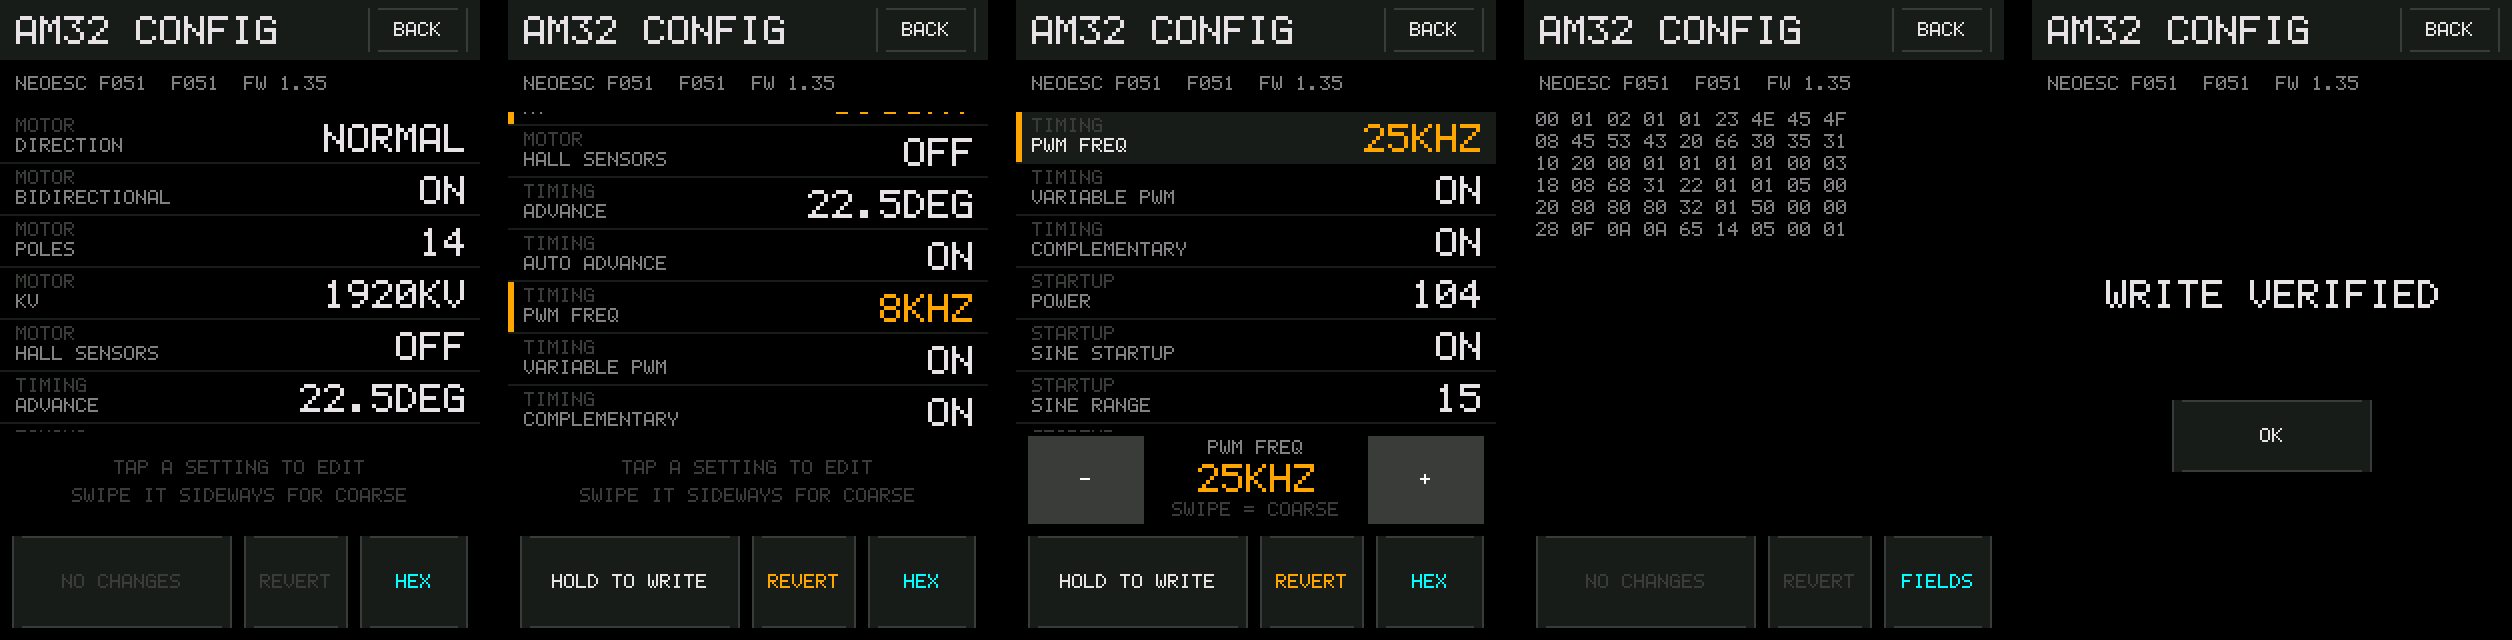
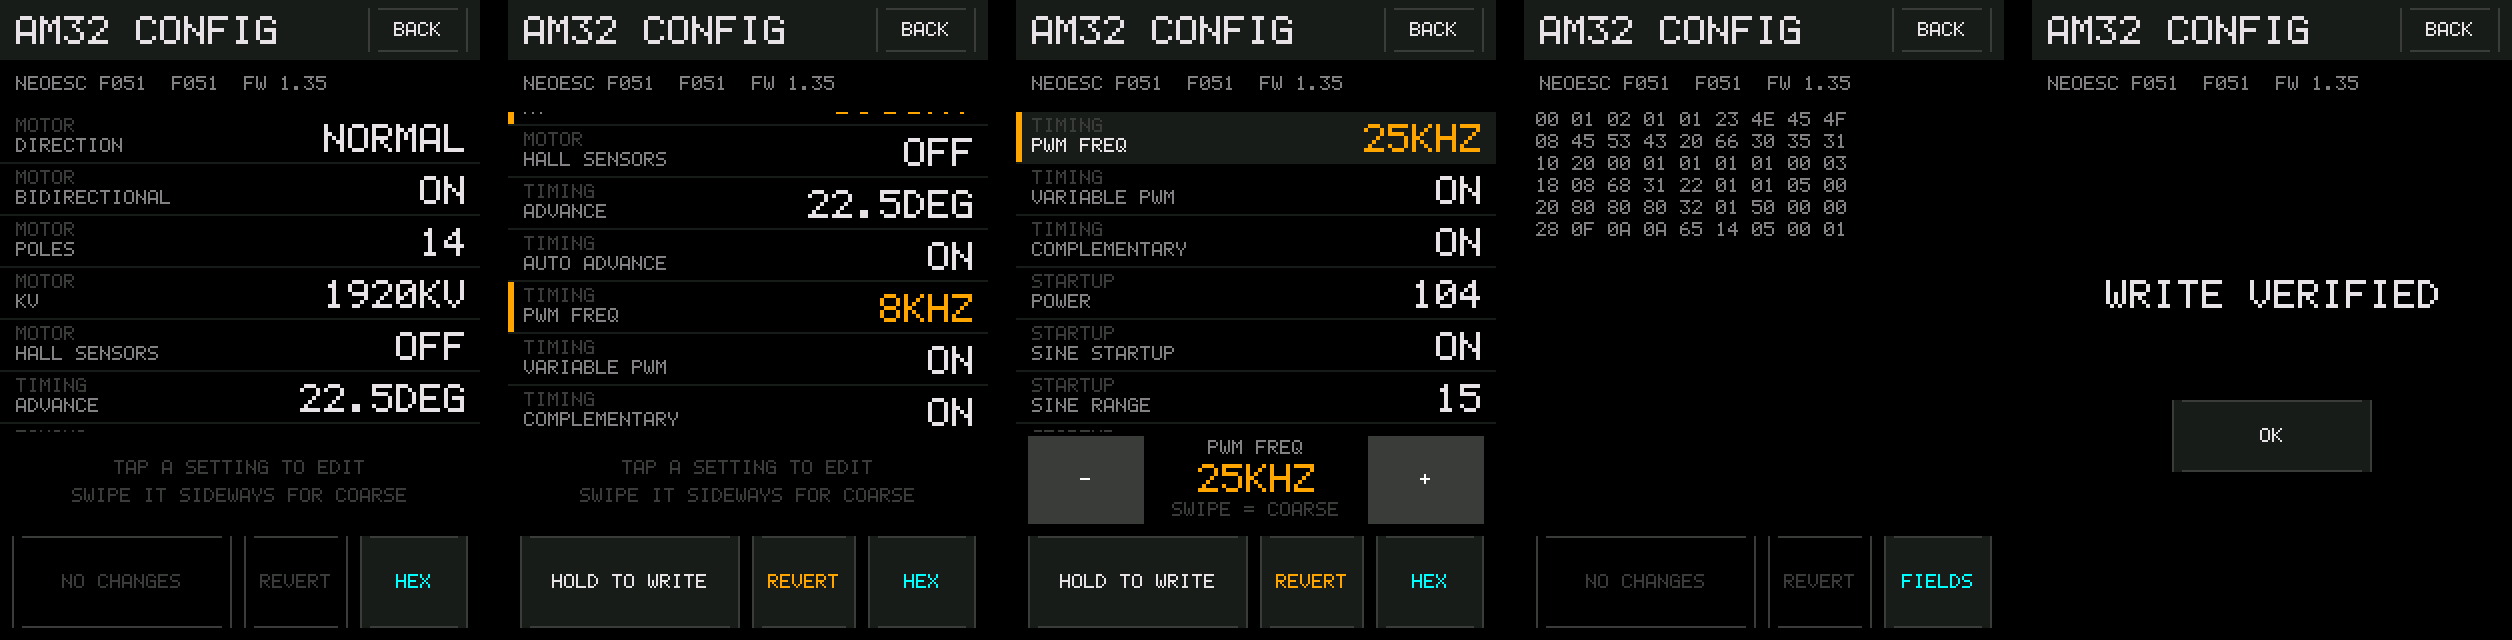
fix(ui): a control that is drawn unavailable no longer acts
Reported in #23: with KISS telemetry switched off, the KISS PIN row on SETUP
still stepped. The row reads "--", the value moves anyway, SAVE writes it to
flash, and nothing on the screen says so -- a hidden reconfiguration, and the
easiest one to trigger on the small panel where a fingertip covers two rows.

Auditing the other screens for the same shape turned up three more, and one
that was already right:

  SETUP    KISS PIN -/+   looked live, stepped a pin that was not in use
  SD LOG   START          looked dead, called sdLogStart() anyway
  SD LOG   USB DRIVE      looked dead, asked for a handover to be refused
  AM32     REVERT         looked dead, ran -- harmless only because reverting
                          nothing to nothing is a no-op
  AM32     HOLD TO WRITE  already gated on `dirty`, and the model for the rest

So the rule is now written down in ui_widgets.h and carried by the widget: pass
enabled=false to uiButton() and gate the hit test on the same expression. The
disabled look is one look instead of three -- an outline with no fill, rather
than the same button with a dimmer label, because at half backlight in daylight
that was the difference between two greys.

What is deliberately *not* disabled:

  - RETRY on the logging screen. It is the control that gets you out of the
    no-card state; disabling it would leave a screen where nothing does
    anything.
  - USB DRIVE with a card present but armed or recording. It refuses and says
[…]

Changed region(s): [[0.0, 0.8125, 0.1553, 1.0], [0.59, 0.8125, 0.7452, 1.0]]

diff --git a/test/test_ui.cpp b/test/test_ui.cpp
@@ -754,6 +754,57 @@ static void testSetupKiss() {
 	// Switching it off is always available.
 	tap(SET_TOGGLE_X, SET_R_KISS);
 	checkInt("toggling again switches it off", settings()->kissEnable, 0);
+
+	// ...and with it off, the pin row stops being a control. It used to look
+	// live and step a pin that was not in use, which SAVE then wrote to flash:
+	// a reconfiguration nobody asked for, on a row already reading "--", with
+	// nothing on the screen to say it had happened. Reported as #23, and the
+	// hard part of it is that the old behaviour was invisible rather than
+	// wrong-looking. Both buttons, both directions, several times.
+	// Each direction is checked against the pin it started from, immediately.
+	// Stepping up and then down and checking once at the end passes whether or
+	// not the row is gated, because the two cancel: the first version of this
+	// test did exactly that and proved nothing.
+	int pinWhenOff = (int)settings()->kissPin;
+	tap(SET_PLUS_X, SET_R_KISSPIN);
+	checkInt("with KISS off, + does not step the pin",
+	         (int)settings()->kissPin, pinWhenOff);
+	// Re-read rather than reusing pinWhenOff: if + had stepped, - would step
+	// back onto it and the second check would pass on the strength of the
+	// first one failing.
+	int pinBeforeMinus = (int)settings()->kissPin;
+	tap(SET_MINUS_X, SET_R_KISSPIN);
+	checkInt("and neither does -", (int)settings()->kissPin, pinBeforeMinus);
+
+	// The row comes back to life with the function, rather than staying dead
+	// until something repaints it.
+	//
+	// Only assertable where the board has a pin to step to. The 2.8" frees two
+	// and the ESC holds one of them, so there the step correctly stays put --
+	// the same case the loop above is written around. Count the free set rather
+	// than special-casing a board name: walk settingsNextPinOn() until it comes
+	// back to where it started, which is the board's own answer.
+	tap(SET_TOGGLE_X, SET_R_KISS);
+	checkInt("KISS back on", settings()->kissEnable, 1);
+
+	int freePins = 1;
+	uint8_t first = settings()->kissPin;
+	for (uint8_t q = settingsNextPinOn(settings()->boardId, first, +1);
+	     q != first && freePins < 64;
+	     q = settingsNextPinOn(settings()->boardId, q, +1))
+		freePins++;
+
+	int pinBeforeStep = (int)settings()->kissPin;
+	tap(SET_PLUS_X, SET_R_KISSPIN);
+	if (freePins > 2) {
+		checkTrue("and the pin row steps again",
+		          (int)settings()->kissPin != pinBeforeStep);
+	} else {
+		checkTrue("the pin row is live again, with nowhere on this board to go",
+		          settingsPinFree(settings()->kissPin) &&
+		          settings()->kissPin != settings()->dshotPin);
+	}
+	tap(SET_TOGGLE_X, SET_R_KISS);
 }
 
 /** @brief Contrast and backlight take effect immediately and persist. */

diff --git a/src/ui.cpp b/src/ui.cpp
@@ -1074,10 +1074,11 @@ static void drawLogScreen() {
 
 	bool active = (st.state == SdLogState::Logging);
 	bool usable = (st.state != SdLogState::NoCard);
+	// Without a card there is nothing to start. It was drawn grey for that
+	// reason already, and pressed it anyway. @see #23
 	uiButton(BTN_LOG_TOGGLE, active ? "STOP" : "START",
-	        usable ? (active ? C_RED : C_PANEL) : C_PANEL,
-	        usable ? (active ? C_ONACCENT : C_LIME) : C_GRID, 2,
-	        pressing(BTN_LOG_TOGGLE, s_touch));
+	        active ? C_RED : C_PANEL, active ? C_ONACCENT : C_LIME, 2,
+	        pressing(BTN_LOG_TOGGLE, s_touch), usable);
 
 	// The card is only mounted once, at boot, so one inserted afterwards needs
 	// this. Without it, "insert card, nothing happens" is indistinguishable
@@ -1088,8 +1089,11 @@ static void drawLogScreen() {
 	// Hands the card to a computer over the same USB cable that powers the
 	// board. Cyan like the other navigation-ish controls; it is not
 	// destructive, and it is refused rather than guarded by a hold.
-	uiButton(BTN_LOG_USB, "USB DRIVE", C_PANEL, usable ? C_CYAN : C_GRID, 1,
-	        pressing(BTN_LOG_USB, s_touch));
+	// Same again. With a card present it stays live even when it will refuse --
+	// armed, or recording -- because those refusals say something the screen
+	// does not already: "NO CARD TO SHARE" only repeats the CARD row above.
+	uiButton(BTN_LOG_USB, "USB DRIVE", C_PANEL, C_CYAN, 1,
+	        pressing(BTN_LOG_USB, s_touch), usable);
 
 	// The note line says why the last press was refused. Blank the row even
 	// when there is nothing to say, or a stale reason outlives its cause.
@@ -1117,14 +1121,22 @@ static void handleLogTouch() {
 		return;
 	}
 
-	if (tapped(BTN_LOG_TOGGLE, s_touch)) {
+	// The same expression the buttons are drawn with: no card, no start and no
+	// handover. RETRY is exempt and always live -- it is the control that gets
+	// you *out* of the no-card state, and disabling it would be a screen with
+	// nothing on it that does anything.
+	SdLogStatus st;
+	sdLogStatus(&st);
+	const bool usable = (st.state != SdLogState::NoCard);
+
+	if (usable && tapped(BTN_LOG_TOGGLE, s_touch)) {
 		if (sdLogActive()) sdLogStop();
 		else               sdLogStart();
 		s_shown.config = -1;
 	} else if (tapped(BTN_LOG_RETRY, s_touch)) {
 		sdLogRemount();
 		s_shown.config = -1;
-	} else if (tapped(BTN_LOG_USB, s_touch)) {
+	} else if (usable && tapped(BTN_LOG_USB, s_touch)) {
 		MscRefusal r = mscRequest();
 		if (r != MscRefusal::None) {
 			s_mscNote = r;

diff --git a/src/ui_setup.cpp b/src/ui_setup.cpp
@@ -167,13 +167,18 @@ static UiRect toggleAt(int y) { return UiRect{BTN_M_X, (int16_t)y, TOGGLE_W, ROW
  * @param label Left-hand caption.
  * @param value Right-aligned value.
  * @param vcol  Value colour.
+ * @param enabled False when the row's setting is not in use: the buttons are
+ *                drawn unavailable and the caller must not step the value.
  */
-static void drawStepRow(int y, const char *label, const char *value, uint16_t vcol) {
+static void drawStepRow(int y, const char *label, const char *value,
+                        uint16_t vcol, bool enabled = true) {
 	gfxRect(0, y, GFX_W, ROW_H, C_BG);
 	gfxText(UI_MARGIN, y + (ROW_H - 7) / 2, label, C_DIM, 1);
 	gfxText(VAL_R - gfxTextW(value, 2), y + (ROW_H - 14) / 2, value, vcol, 2);
-	uiButton(minusAt(y), "-", C_PANEL, C_TEXT, 2, uiPressing(minusAt(y), &s_touchSnap));
-	uiButton(plusAt(y),  "+", C_PANEL, C_TEXT, 2, uiPressing(plusAt(y),  &s_touchSnap));
+	uiButton(minusAt(y), "-", C_PANEL, C_TEXT, 2,
+	         uiPressing(minusAt(y), &s_touchSnap), enabled);
+	uiButton(plusAt(y),  "+", C_PANEL, C_TEXT, 2,
+	         uiPressing(plusAt(y),  &s_touchSnap), enabled);
 }
 
 /**
@@ -273,8 +278,12 @@ static void drawAll() {
 
 	if (s->kissEnable) snprintf(buf, sizeof(buf), "GP%u", (unsigned)s->kissPin);
 	else               snprintf(buf, sizeof(buf), "--");
+	// With KISS off this row has nothing to set: the value reads "--", and the
+	// buttons say so too now. They used to look live and quietly move a pin
+	// that was not in use, which SAVE then wrote to flash -- a reconfiguration
+	// nobody asked for and nothing on the screen reported. @see #23
 	drawStepRow(R_KISSPIN, "KISS PIN", buf,
-	            s->kissEnable ? C_CYAN : C_DIM);
+	            s->kissEnable ? C_CYAN : C_DIM, s->kissEnable != 0);
 
 	drawToggleRow(R_CONTRAST, "CONTRAST",
 	              s->highContrast ? "HIGH" : "NORMAL", s->highContrast != 0);
@@ -432,7 +441,10 @@ bool uiSetupTick(const TouchState *t) {
 		else       s->dshotKbaud = (uint16_t)(s->dshotKbaud >= 1200 ? 150 : s->dshotKbaud * 2);
 		changed = true;
 	}
-	d = stepDir(t, R_KISSPIN);
+	// Gated on the same expression the row is drawn with. Still stepped through
+	// repeatFires() with a zero direction rather than skipped outright, or the
+	// repeat state would keep whatever it held when KISS was switched off.
+	d = s->kissEnable ? stepDir(t, R_KISSPIN) : 0;
 	if (repeatFires(&s_kissPinRep, d, millis())) {
 		s->kissPin = stepPinAvoiding(s->kissPin, d, s->dshotPin, true);
 		changed = true;

diff --git a/src/ui_widgets.h b/src/ui_widgets.h
@@ -22,6 +22,13 @@
  *   to stay legible. Adding to what is there cannot break any pairing.
  * - **Touch targets have a floor.** @ref UI_TAP_MIN is what a fingertip needs;
  *   the 18 px BACK strips this replaces were below it.
+ * - **A control that is drawn unavailable does not act.** Pass `enabled=false`
+ *   to uiButton() and gate its hit test on the same expression. Before this
+ *   there were three answers on three screens: SETUP's KISS PIN steppers looked
+ *   live and silently moved a pin that was not in use, the logging screen's
+ *   START looked dead and started a log anyway, and AM32's REVERT looked dead
+ *   and ran. A greyed control that still fires is worse than either, because
+ *   the screen has told you it will not.
  *
  * Hit testing is not duplicated here: it is inputPressing() and inputTapped()
  * in ui_input.h, and the wrappers below only spare callers from spelling out
@@ -104,10 +111,20 @@ bool uiTapped(const UiRect &r, const TouchState *t);
  * @param fill    Resting fill colour.
  * @param fg      Label colour, chosen against @p fill.
  * @param scale   Text scale.
- * @param pressed True while a finger is on it, from uiPressing().
+ * @param pressed True while a finger is on it, from uiPressing(). Ignored when
+ *                @p enabled is false -- a control that cannot act cannot show a
+ *                press either.
+ * @param enabled False draws the unavailable look: an outline with no fill,
+ *                which reads as "not a thing you press" at arm's length in a
+ *                way that a dimmed label does not. @p fill and @p fg are then
+ *                ignored, so callers can keep passing the colours the control
+ *                has when it is live.
+ *
+ * Drawing a button disabled is half of it. The caller must gate the hit test on
+ * the same expression; see the rule at the top of this file.
  */
 void uiButton(const UiRect &r, const char *label, uint16_t fill, uint16_t fg,
-              int scale, bool pressed);
+              int scale, bool pressed, bool enabled = true);
 
 /**
  * @brief Draw the header band: title on the left, BACK on the right.

diff --git a/src/ui_am32.cpp b/src/ui_am32.cpp
@@ -339,12 +339,14 @@ static void drawList() {
 		if (pct > 100) pct = 100;
 		gfxRect(6, FOOT_Y - 4, 110 * pct / 100, 3, C_LIME);
 	}
+	// Both are gated on the same `dirty` their hit tests are. WRITE already
+	// was; REVERT was drawn grey and ran regardless, which was harmless only
+	// because reverting nothing to nothing is a no-op. @see #23
 	uiButton(BTN_WRITE, dirty ? "HOLD TO WRITE" : "NO CHANGES",
-	         dirty ? writeFill : C_PANEL,
-	         dirty ? (s_writeHolding ? C_ONACCENT : C_TEXT) : C_GRID, 1,
-	         s_writeHolding);
-	uiButton(BTN_REVERT, "REVERT", C_PANEL, dirty ? C_AMBER : C_GRID, 1,
-	         uiPressing(BTN_REVERT, s_frameTouch));
+	         writeFill, s_writeHolding ? C_ONACCENT : C_TEXT, 1,
+	         s_writeHolding, dirty);
+	uiButton(BTN_REVERT, "REVERT", C_PANEL, C_AMBER, 1,
+	         uiPressing(BTN_REVERT, s_frameTouch), dirty);
 	uiButton(BTN_HEX, s_hexView ? "FIELDS" : "HEX", C_PANEL, C_CYAN, 1,
 	         uiPressing(BTN_HEX, s_frameTouch));
 }
@@ -531,7 +533,7 @@ static void handleListTouch(const TouchState *t) {
 	// --- destructive taps fire on release, inside, having started inside, so
 	//     a mis-tap can slide off. REVERT throws away every unsaved edit; it
 	//     used to do so on touch-down ---
-	if (uiTapped(BTN_REVERT, t)) {
+	if (dirty && uiTapped(BTN_REVERT, t)) {
 		memcpy(s_eeprom, s_original, sizeof(s_eeprom));
 		s_redraw = true;
 	} else if (uiTapped(BTN_HEX, t)) {

diff --git a/src/ui_widgets.cpp b/src/ui_widgets.cpp
@@ -24,7 +24,16 @@ bool uiTapped(const UiRect &r, const TouchState *t) {
 }
 
 void uiButton(const UiRect &r, const char *label, uint16_t fill, uint16_t fg,
-              int scale, bool pressed) {
+              int scale, bool pressed, bool enabled) {
+	if (!enabled) {
+		// An outline and nothing else. Deliberately not "the same button with a
+		// dimmer label": on a panel at half backlight in daylight that is the
+		// difference between two greys, and the whole point is that this one
+		// must not read as pressable.
+		fill = C_BG;
+		fg = C_GRID;
+		pressed = false;
+	}
 	gfxRoundRect(r.x, r.y, r.w, r.h, UI_RADIUS, fill);
 	gfxRoundFrame(r.x, r.y, r.w, r.h, UI_RADIUS, pressed ? C_INK : C_GRID);
 	// The inner ring is what makes a press read at arm's length; it needs a
